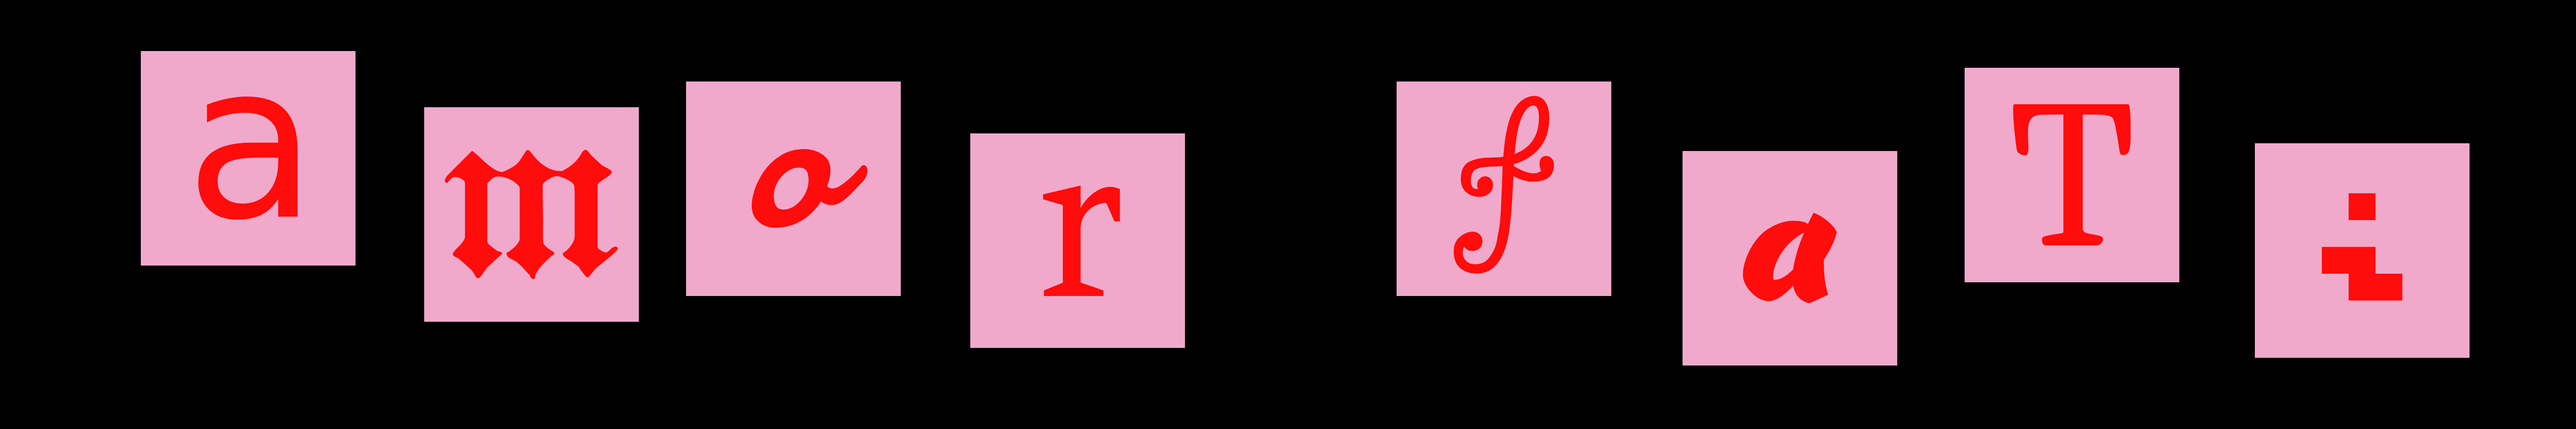
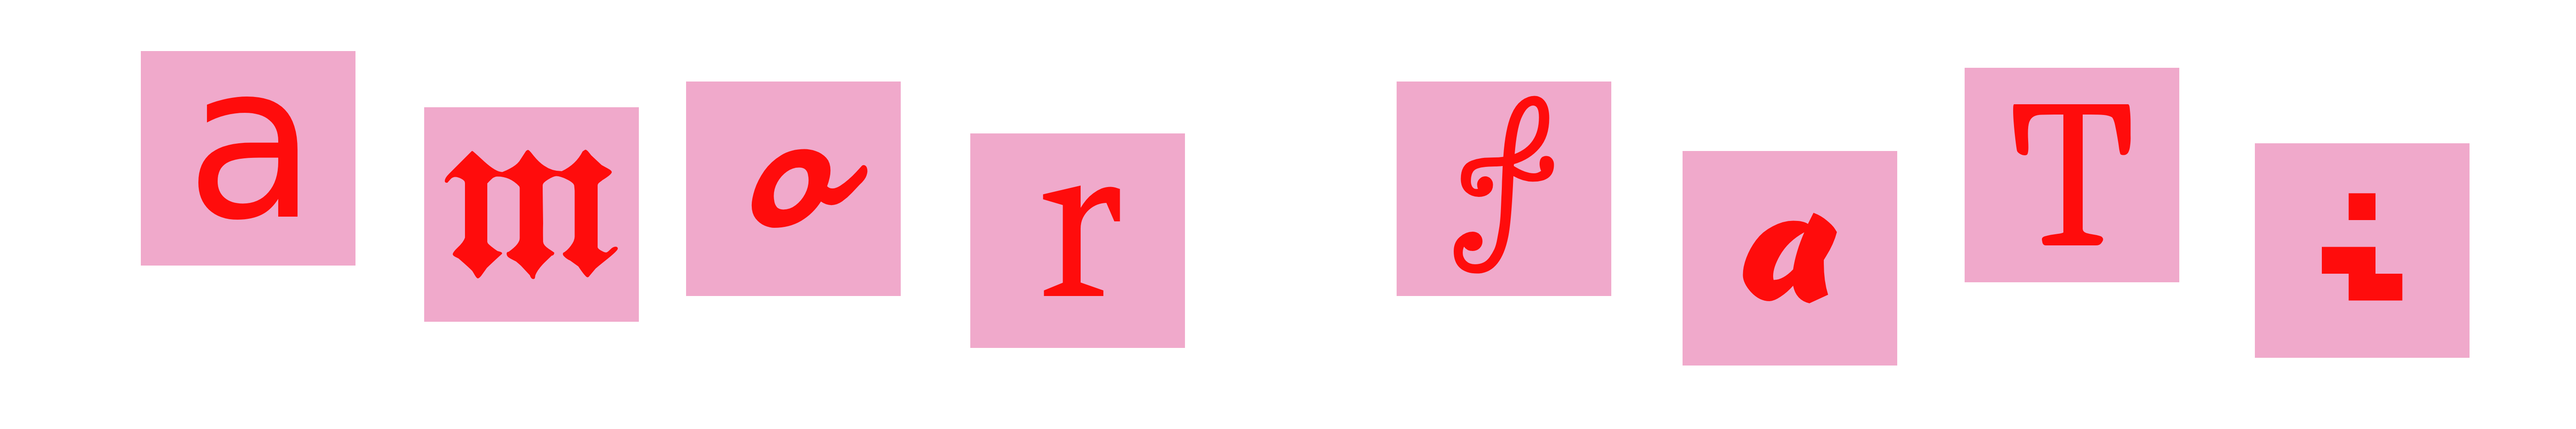
update README.md
made title image transparent and removed title heading from README.md

diff --git a/README.md b/README.md
@@ -1,7 +1,5 @@
 ![Image with the title of the game "amor fati"](./resources/title.png)
 
-# amor-fati
-
 > a 3d interactive survival/escape game, where you have to try and escape the realm of the undead.
 
 ## Preamble
